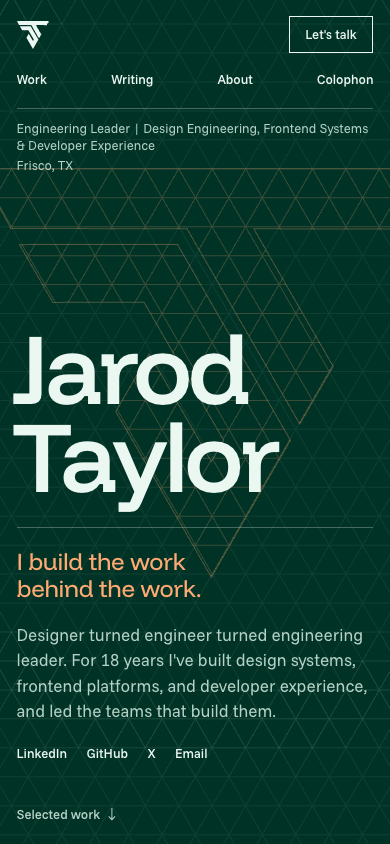
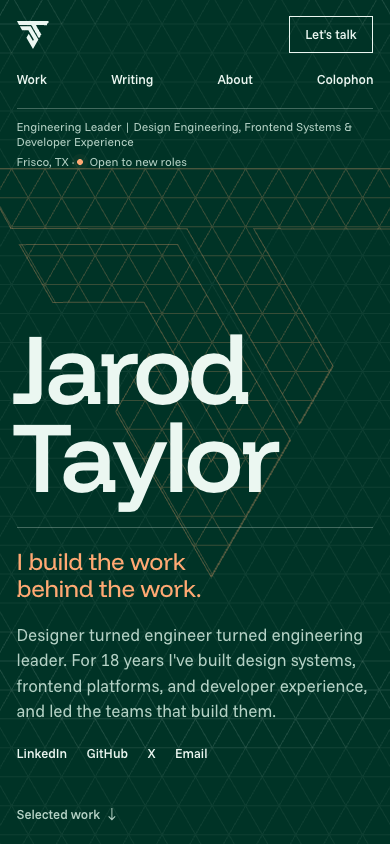
r6-clean: quieter info strip with an availability status

Changed region(s): [[0.0308, 0.1232, 0.9231, 0.2156]]

diff --git a/prototypes/r6-clean/styles.css b/prototypes/r6-clean/styles.css
@@ -31,6 +31,7 @@
   --size-tagline: clamp(1.5rem, 0.9rem + 1.6vw, 3.5rem);
   --size-text: clamp(1.0625rem, 0.85rem + 0.5vw, 1.625rem);
   --size-label: clamp(0.8125rem, 0.72rem + 0.22vw, 1.0625rem);
+  --size-meta: clamp(0.75rem, 0.68rem + 0.16vw, 0.9375rem);
   --leading-name: 0.84;
   --leading-text: 1.5;
   --tracking-name: -0.04em;
@@ -158,9 +159,24 @@ a {
   padding-block-start: 0.85em;
   border-block-start: var(--stroke) solid var(--rule);
   color: var(--text-muted);
+  font-size: var(--size-meta);
   font-weight: var(--weight-text);
 }
 .info-place { white-space: nowrap; }
+/* Availability: a small apricot dot that breathes */
+.status::before {
+  content: "";
+  display: inline-block;
+  inline-size: 0.5em;
+  block-size: 0.5em;
+  margin-inline-end: 0.5em;
+  border-radius: 50%;
+  background: var(--accent);
+  vertical-align: 0.08em;
+  box-shadow: 0 0 0 0 oklch(0.81 0.125 52 / 0.5);
+  animation: breathe 2.4s var(--ease-out) infinite;
+}
+@keyframes breathe { 70%, 100% { box-shadow: 0 0 0 0.45em oklch(0.81 0.125 52 / 0); } }
 
 /* Hero */
 .hero {

diff --git a/prototypes/r6-clean/index.html b/prototypes/r6-clean/index.html
@@ -39,7 +39,7 @@
     </div>
     <p class="info">
       <span class="info-role">Engineering Leader | Design Engineering, Frontend Systems &amp; Developer Experience</span>
-      <span class="info-place">Frisco, TX</span>
+      <span class="info-place">Frisco, TX · <span class="status">Open to new roles</span></span>
     </p>
   </header>
 
